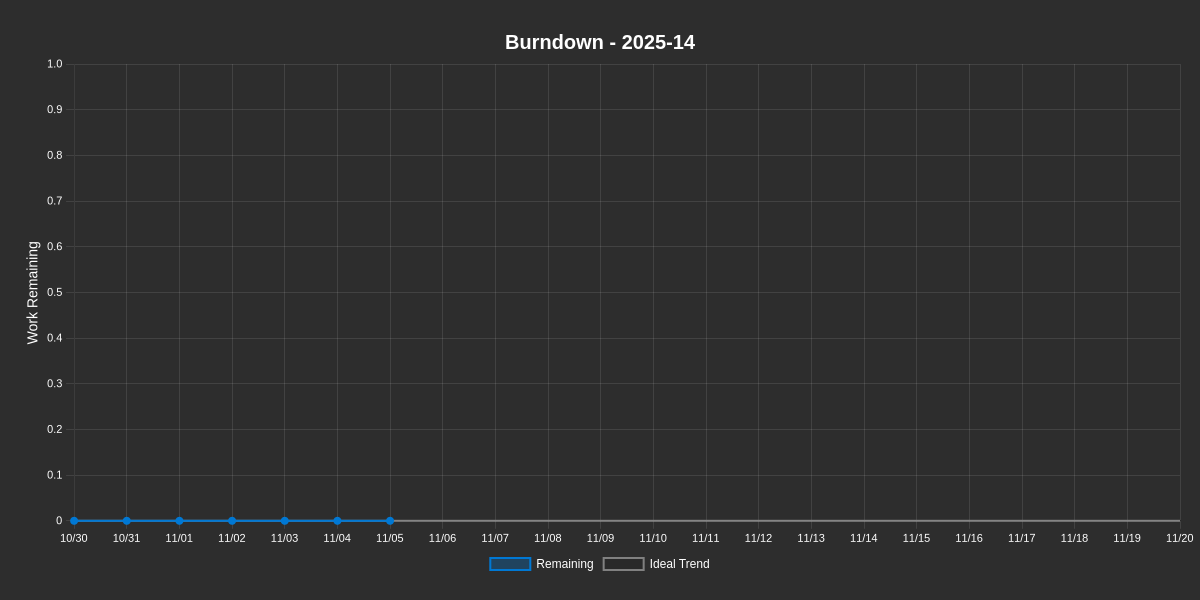
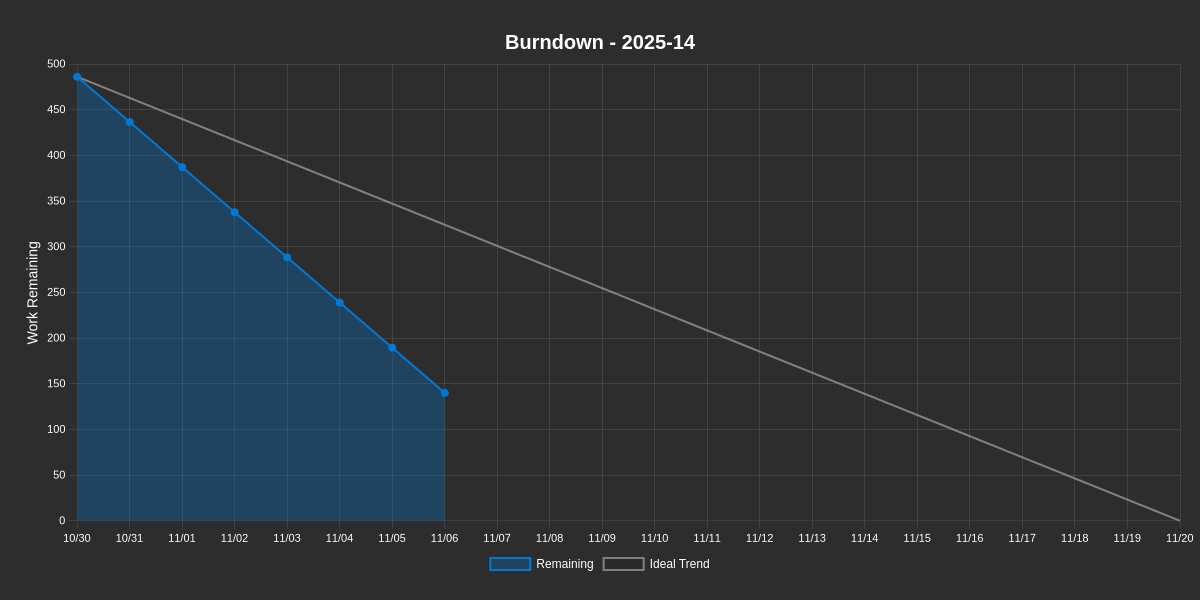
Update burndown report and chart - 2025-11-06

diff --git a/BURNDOWN.md b/BURNDOWN.md
@@ -1,6 +1,6 @@
 # Burndown Report
 
-**Generated:** 2025-11-05 at 01:57:08 UTC
+**Generated:** 2025-11-06 at 01:57:08 UTC
 
 **Project:** [TEMPLATE] EngageMe
 
@@ -10,15 +10,15 @@
 
 <table>
 <tr>
-<td><strong>Remaining Work</strong><br/>0h</td>
-<td><strong>Completed</strong><br/>0%</td>
-<td><strong>Average Burndown</strong><br/>0.0h/day</td>
-<td><strong>Total Scope</strong><br/>0h</td>
+<td><strong>Remaining Work</strong><br/>140h</td>
+<td><strong>Completed</strong><br/>71%</td>
+<td><strong>Average Burndown</strong><br/>43.3h/day</td>
+<td><strong>Total Scope</strong><br/>486h</td>
 </tr>
 </table>
 
 **Duration:** 2025-10-30 to 2025-11-20 (21 days)  
-**Progress:** Day 7 of 21 (15 days remaining)
+**Progress:** Day 8 of 21 (14 days remaining)
 
 ### Burndown Chart
 
@@ -28,13 +28,28 @@
 
 | Metric | Value |
 |--------|-------|
-| **Issues Closed** | 0 / 0 |
+| **Issues Closed** | 0 / 14 |
+| **Projected Completion** | 4 days (✅ On Track) |
 
 <details>
-<summary><strong>View All Issues (0)</strong></summary>
+<summary><strong>View All Issues (14)</strong></summary>
 
 | # | Title | Type | State | Estimate | Remaining | Completed |
 |---|-------|------|-------|----------|-----------|----------|
+| 🔵 #25 | [EPIC]  epic 3 | Unknown | OPEN | 50h | 0h | 50h |
+| 🔵 #26 | [FEATURE] feature 3 | Unknown | OPEN | 50h | 0h | 50h |
+| 🔵 #27 | [EPIC] epic 4 | Unknown | OPEN | 50h | 2h | 48h |
+| 🔵 #30 | [EPIC] epic 6 | Unknown | OPEN | 0h | 0h | 0h |
+| 🔵 #32 | [EPIC]  epic 7 | Unknown | OPEN | 0h | 0h | 0h |
+| 🔵 #34 | [FEATURE] fæture 7.1 | Unknown | OPEN | 0h | 0h | 0h |
+| 🔵 #36 | [EPIC] epic 8 | Unknown | OPEN | 0h | 0h | 0h |
+| 🔵 #42 | [EPIC] asbest 3.0? | Unknown | OPEN | 50h | 20h | 30h |
+| 🔵 #43 | [FEATURE] kraken | Unknown | OPEN | 50h | 20h | 30h |
+| 🔵 #44 | [Task] streger på fortorvet | Unknown | OPEN | 50h | 20h | 30h |
+| 🔵 #45 | [EPIC]  Forest Whitaker | Unknown | OPEN | 62h | 26h | 36h |
+| 🔵 #46 | [FEATURE] Michael Caine | Unknown | OPEN | 62h | 26h | 36h |
+| 🔵 #47 | [Task] Clint Eastwood | Unknown | OPEN | 50h | 20h | 30h |
+| 🔵 #48 | [Task] Gary Oldman | Unknown | OPEN | 12h | 6h | 6h |
 
 </details>
 
@@ -52,7 +67,7 @@
 </table>
 
 **Duration:** 2025-11-20 to 2025-12-11 (21 days)  
-**Progress:** Day 0 of 21 (36 days remaining)
+**Progress:** Day 0 of 21 (35 days remaining)
 
 ### Metrics
 
@@ -82,7 +97,7 @@
 </table>
 
 **Duration:** 2025-12-11 to 2026-01-01 (21 days)  
-**Progress:** Day 0 of 21 (57 days remaining)
+**Progress:** Day 0 of 21 (56 days remaining)
 
 ### Metrics
 
